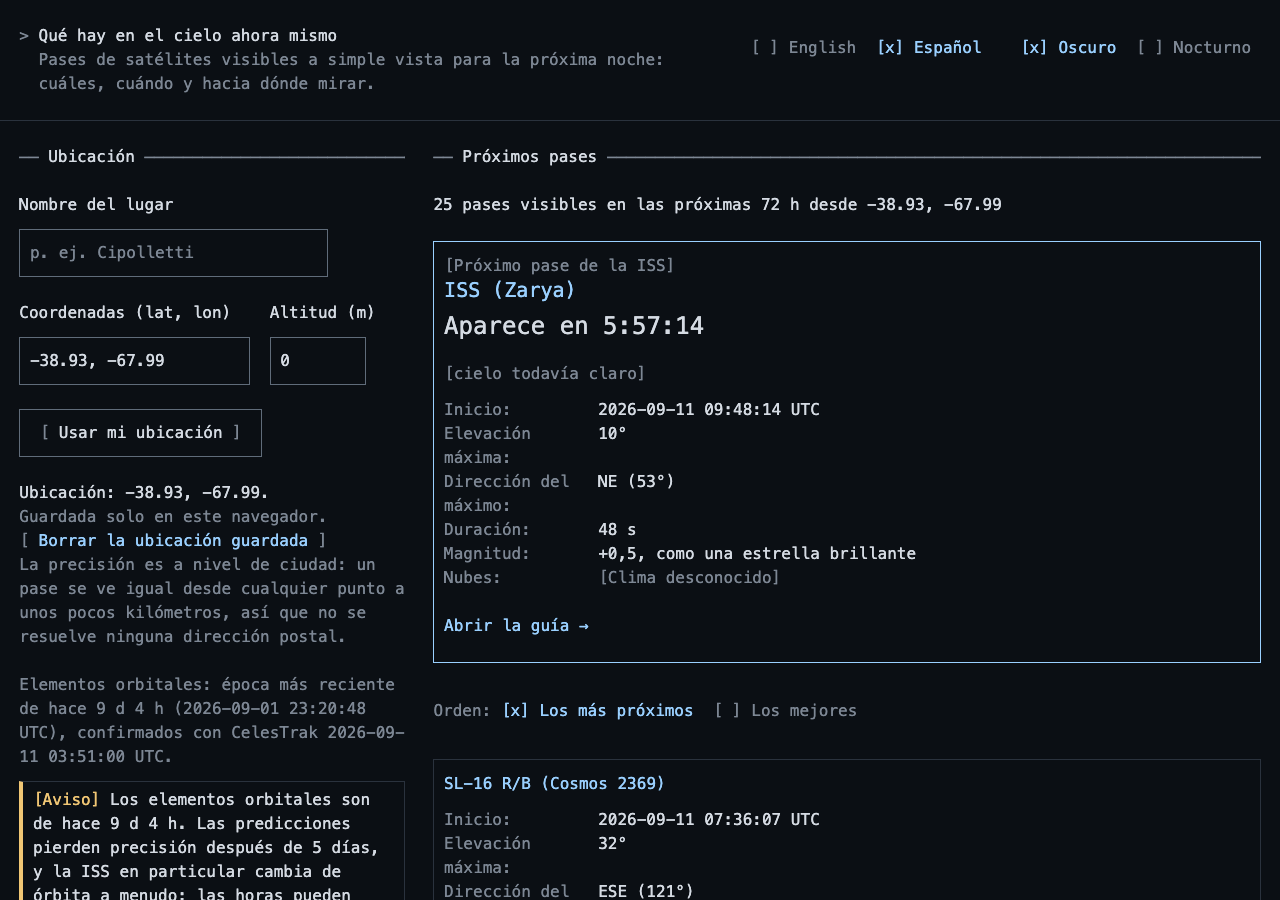
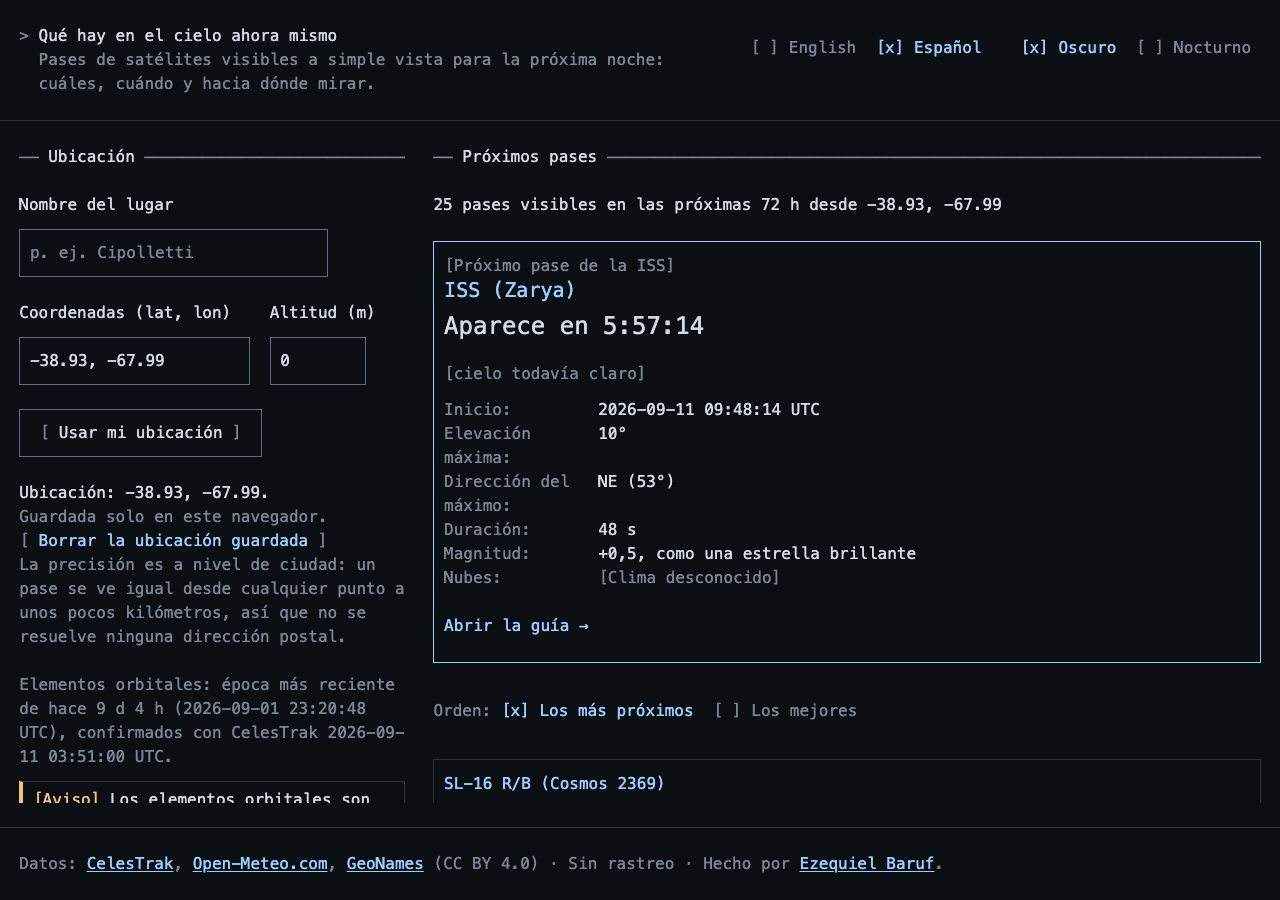
R23: the shell is the wide layout, and the list is the one thing that scrolls (D-119)
Scoping the shell to an open pass fixed one case and left two others wrong.
With a list and no pass the whole page scrolled, taking the header's language
and theme switches off the top and the location out from beside the list it
describes — the reader lost sight of what the list was *of* in order to read
it. With nothing entered at all the footer sat under three short paragraphs
with the ground showing below it.

So `#root` is the shell at every wide width, exactly `100dvh`, and the page
itself never scrolls. What scrolls is whichever pane has outgrown its share,
which in the ordinary state of the page means the pass list and nothing else:
72 h of them is the only thing on screen long enough to need it, and it is
the thing being read. The layout no longer changes how it scrolls depending
on what happens to be open.

`minmax(0, 1fr)` rather than `1fr` throughout: the row has to be allowed to
shrink below its content, or the panes have no height to be bounded by and it
all scrolls as one again.

Tests: a new one for the state the change is about — a list, no pass — holding
the page to no scroll, the list to scrolling itself, and the header, the left
column and the footer to not moving while it does. The assertion that the page
started scrolling again when the guide closed is now the opposite, which is
the point. Home captures retaken; the guide captures are unchanged.

Claude-Session: https://claude.ai/code/session_01UWAmU266DAWAov3NvX5itT

Changed region(s): [[0.0, 0.9022, 0.7188, 1.0]]

diff --git a/src/ui/App.module.css b/src/ui/App.module.css
@@ -52,33 +52,28 @@
     border-bottom: 1px solid var(--rule);
   }
 
+  /* R23 (D-119): both columns take the whole of the shell's middle row rather
+     than stopping at their content, so the left one reaches the footer instead
+     of leaving dead space under it and the right one has a height its panes
+     can be bounded by. The single row is written out because left implicit it
+     would be auto — sized to the taller column — and the shell would be lost
+     out of the bottom of `#root`. */
   .main {
     grid-template-columns: calc(40 * var(--cell)) minmax(0, 1fr);
-    gap: var(--row) calc(3 * var(--cell));
-    align-items: start;
-  }
-
-  /* R23 (D-119): inside the shell both columns take the whole of the middle
-     row rather than stopping at their content, so the left one reaches the
-     footer instead of leaving the page's dead space under it, and the right
-     one has a height its two panes can be bounded by. */
-  .main:has([data-guide='open']) {
-    /* One row, the height of the shell's middle band. Left implicit it would
-       be auto — sized to the taller column — and the whole point of the shell
-       would be lost out of the bottom of `#root`. */
     grid-template-rows: minmax(0, 1fr);
+    gap: var(--row) calc(3 * var(--cell));
     align-content: stretch;
     align-items: stretch;
     min-height: 0;
   }
 
-  .main:has([data-guide='open']) > .column {
+  .main > .column {
     min-height: 0;
   }
 
-  /* Short viewports: the location, the banners and the Now panel can outgrow
-     the shell too, and this column scrolls itself when they do. */
-  .main:has([data-guide='open']) > .leftColumn {
+  /* The location, the banners and the Now panel can outgrow the shell on a
+     short screen, and this column scrolls itself when they do. */
+  .leftColumn {
     overflow-y: auto;
   }
 
@@ -94,13 +89,14 @@
     gap: calc(3 * var(--cell));
   }
 
-  /* The list scrolls itself rather than the page, so the guide beside it
-     stays in view however long the list is. Its height is the shell's
-     (D-119) and no longer a fixed 34 rows: a cap written in rows is right at
-     one viewport height and wrong at every other — 816 px overshot a 768 px
-     laptop, so the page scrolled underneath a list that was already
-     scrolling, and wasted the bottom of a tall screen. */
-  .column[data-guide='open'] .listColumn {
+  /* The list scrolls itself rather than the page, whether or not a guide is
+     open beside it: it is 72 h of passes and the one thing on the screen long
+     enough to need it. Its height is the shell's (D-119) and no longer a
+     fixed 34 rows — a cap written in rows is right at one viewport height and
+     wrong at every other: 816 px overshot a 768 px laptop, so the page
+     scrolled underneath a list that was already scrolling, and wasted the
+     bottom of a tall screen. */
+  .listColumn {
     min-height: 0;
     overflow-y: auto;
   }

diff --git a/tests/e2e/desktop.spec.ts b/tests/e2e/desktop.spec.ts
@@ -97,6 +97,40 @@ test('wide: with nothing entered the page still fills the screen and the footer 
   expect(left?.y).toBeLessThan(TALL_HEIGHT / 2);
 });
 
+/**
+ * D-119: with a list and no pass open — the ordinary state of the page — the
+ * scroll belongs to the list and to nothing else. The header keeps the two
+ * switches reachable, the left column keeps saying what the list is of, and
+ * the footer stays on the bottom of the screen.
+ */
+test('wide: with a list and no pass open, only the list scrolls (D-119)', async ({ page }) => {
+  await loadWithPasses(page);
+
+  expect(
+    await page.evaluate(() => document.documentElement.scrollHeight - document.documentElement.clientHeight),
+  ).toBeLessThanOrEqual(1);
+
+  const list = page.getByTestId('list-column');
+  expect(await list.evaluate((el) => el.scrollHeight > el.clientHeight)).toBe(true);
+  await list.evaluate((el) => {
+    el.scrollTop = 300;
+  });
+  expect(await list.evaluate((el) => el.scrollTop)).toBeGreaterThan(0);
+  expect(await page.evaluate(() => window.scrollY)).toBe(0);
+
+  // Scrolling the list moved nothing else: the header, the left column and the
+  // footer are where they were, and the footer is on the bottom of the screen.
+  const [header, left, footer] = await Promise.all([
+    page.getByRole('banner').boundingBox(),
+    page.getByTestId('col-left').boundingBox(),
+    page.getByRole('contentinfo').boundingBox(),
+  ]);
+  if (!header || !left || !footer) throw new Error('the shell is not laid out');
+  expect(header.y).toBeGreaterThanOrEqual(0);
+  expect(left.y).toBeLessThan(WIDE.height / 2);
+  expect(Math.abs(footer.y + footer.height - WIDE.height)).toBeLessThanOrEqual(1);
+});
+
 test('wide: two columns, the guide beside a live list, Escape and the hash (FR-DESK-1/2/3)', async ({ page }) => {
   const golden = reference.firstGoldenPass;
   if (!golden) throw new Error('reference-values.json has no firstGoldenPass');
@@ -222,11 +256,12 @@ test('wide: two columns, the guide beside a live list, Escape and the hash (FR-D
   await expect(page).not.toHaveURL(/#pass=/);
   const closedBox = await page.getByTestId('list-column').boundingBox();
   expect(closedBox?.width).toBeGreaterThan(listBox.width);
-  // D-119 is scoped to an open pass: the list on its own is an ordinary long
-  // page again, scrolling as one rather than inside a bounded shell.
+  // The shell is the wide layout, not a mode a pass puts it into: closing the
+  // guide gives the list the width back and changes nothing about the scroll.
   expect(
-    await page.evaluate(() => document.documentElement.scrollHeight > document.documentElement.clientHeight),
-  ).toBe(true);
+    await page.evaluate(() => document.documentElement.scrollHeight - document.documentElement.clientHeight),
+  ).toBeLessThanOrEqual(1);
+  expect(await page.getByTestId('list-column').evaluate((el) => el.scrollHeight > el.clientHeight)).toBe(true);
 });
 
 /**

diff --git a/src/ui/styles/global.css b/src/ui/styles/global.css
@@ -66,26 +66,19 @@ main {
     margin-inline: 0;
   }
 
-  /* R23 (D-119). The wide page is a shell of header, main and footer, at
-     least one viewport high. `min-height` and a `1fr` middle row: with little
-     on the page — no location entered yet, so no list and no Now panel — the
-     middle row takes up the slack and the footer sits on the bottom of the
-     screen instead of floating under three short paragraphs with the ground
-     showing below it; with a long list the rows grow and the page scrolls as
-     it always did. The `1fr` here is `minmax(auto, 1fr)`, so the row never
-     shrinks below its own content. */
+  /* R23 (D-119). The wide page is a shell exactly one viewport high: header,
+     main and footer, and the page itself never scrolls. What scrolls is
+     whichever pane has outgrown its share — usually the pass list, which is
+     72 h of them, and which is the thing being read. The header stays, so the
+     language and theme switches are always reachable; the location and the
+     Now panel stay, so what the list is *of* is still on screen while it is
+     read; the footer sits on the bottom of the screen whether the page is
+     full or nearly empty. `minmax(0, 1fr)` and not `1fr`: the middle row has
+     to be allowed to shrink below its content, or the panes have no height to
+     be bounded by and the whole thing scrolls as one again. */
   #root {
-    min-height: 100dvh;
-    display: grid;
-    grid-template-rows: auto 1fr auto;
-  }
-
-  /* With a pass open it is exactly one viewport instead of at least one, and
-     the middle row may shrink below its content — that is what gives the
-     panes inside it a height to be bounded by, so each scrolls itself rather
-     than all three adding up into one page scroll. */
-  #root:has([data-guide='open']) {
     height: 100dvh;
+    display: grid;
     grid-template-rows: auto minmax(0, 1fr) auto;
   }
 }

diff --git a/PLAN.md b/PLAN.md
@@ -291,7 +291,7 @@ These plan SPEC v1.0 (V1-1..V1-11). Nothing here is implemented yet; each decisi
 - **D-116 — The breakpoint lives in `src/lib`; the hook that reads it lives in `src/ui/hooks`.** §5's tree put `useLayoutMode` in `lib/layout.ts`, and §3's dependency table forbids `src/lib` from importing React at all — a rule the lint config enforces, so the file as drawn could not have been written. The table wins, for the reason it exists: `src/lib` is the pure layer the worker and the physics tests may share, and one React import would make all of it unimportable there. So `lib/layout.ts` keeps what is not React — `WIDE_CELLS`, `WIDE_MIN_PX`, `WIDE_QUERY` and `layoutMode(matches)`, which is also what `tests/styles/breakpoint.test.ts` imports in Node — and `ui/hooks/useLayoutMode.ts` is the subscription, beside `useNow.ts`, which R11 moved there for exactly this reason. The hook is `useSyncExternalStore` over the media query rather than an effect writing state: an effect would mount every desktop load in the compact layout and reflow the whole page one frame later, and React's own lint rule rejects the synchronous `setState` that would be needed to avoid it.
 - **D-117 — The compact sheet is portaled to the body, so that one component can pick both shells.** D-72 asks for one guide component with two wrappers, and FR-DESK-3 puts the wide one *inside* the right column — but the compact sheet needs the page around it to be `inert`, and a sheet rendered inside `main` would be inert with it. `PassDetail` is therefore rendered once, in the right column, and `createPortal`s its sheet to `document.body` when the layout is compact; the panel renders in place when it is wide. Nothing about the sheet changes — it was already `position: fixed`, so its box never depended on where it sat in the DOM — and `App` goes on marking header, main and footer inert around it. One consequence for tests: RTL's `container` no longer holds the sheet, so the three `axe` runs that cover it take `document.body` instead, which is strictly more of the page than they saw before.
 - **D-118 — The wide guide is a labelled region, not a dialog.** The compact sheet is `role="dialog" aria-modal="true"` because it covers the page: nothing behind it can be reached, and that is what the role promises. The wide panel promises the opposite — FR-DESK-3's whole point is that the list stays beside it, scrollable and clickable — so calling it a dialog would tell a screen-reader user the page was blocked when it is not, and a non-modal `dialog` is a distinction almost nothing conveys. It is a `<section>` with a label, like the three regions already on the screen; `<aside>` would be the better tag but axe's own best-practice rule rejects a complementary landmark nested in `main`. The label is "Guide: <name>" rather than the name alone, because the card for the same pass is still on screen one column to the left and two regions with one name is a worse answer than a longer one. Focus still moves to the heading on open and `Esc` still closes: those belong to the guide, not to the shell, and `PassDetail` owns them for both.
-- **D-119 — With a pass open the wide page is one viewport high, and each pane scrolls itself.** FR-DESK-3 says the list stays scrollable beside the guide, and the first implementation gave the list a `max-height` of 34 rows and the guide none at all. That is two scrollbars that do not agree: the list's, fixed at 816 px, and the page's, driven by whichever of the three columns is longest — usually the guide, which carries the countdown, the chart and the numbers. The reader scrolls the page to reach the bottom of the guide and the list scrolls out from under them; the left column, packed to the top by `align-items: start`, leaves a screen of dead space behind. A cap written in rows is also right at exactly one viewport height and wrong at every other: 816 px overshoots a 768 px laptop, so the page scrolled *underneath* a list that was already scrolling, and wastes the bottom of a tall screen. So the height comes from the viewport instead. `#root` becomes a grid of header, main and footer, `min-height: 100dvh` with a `1fr` middle row at every wide width — which also settles the opposite case, the shortest the page ever is: with no location entered there is no list and no Now panel, and the footer used to sit under three short paragraphs with the ground showing below it for the rest of the screen. `1fr` is `minmax(auto, 1fr)`, so a long list still grows the row and scrolls the page as it always did. With a pass open the shell is exactly `100dvh` rather than at least it, and the middle row becomes `minmax(0, 1fr)` so it may shrink below its content; `main` stretches both columns to that row, and the three panes that can outgrow it — the left column, the list, and the guide's body under a head that stays — each carry their own `overflow-y`. Three consequences worth naming. The shell is scoped to `:has([data-guide='open'])`, because with no pass open the page is an ordinary long document and should scroll like one; nothing about compact changes, and the sheet is still `position: fixed` over a page whose scroll it locks (D-117). `100dvh` and not `100vh`: on a phone in landscape past the breakpoint the dynamic unit is the one that does not hide the footer behind the browser chrome. And the guide's head is pinned rather than scrolled away, because the close control is what someone reaches for after reading to the bottom of a long guide.
+- **D-119 — With a pass open the wide page is one viewport high, and each pane scrolls itself.** FR-DESK-3 says the list stays scrollable beside the guide, and the first implementation gave the list a `max-height` of 34 rows and the guide none at all. That is two scrollbars that do not agree: the list's, fixed at 816 px, and the page's, driven by whichever of the three columns is longest — usually the guide, which carries the countdown, the chart and the numbers. The reader scrolls the page to reach the bottom of the guide and the list scrolls out from under them; the left column, packed to the top by `align-items: start`, leaves a screen of dead space behind. A cap written in rows is also right at exactly one viewport height and wrong at every other: 816 px overshoots a 768 px laptop, so the page scrolled *underneath* a list that was already scrolling, and wastes the bottom of a tall screen. So the height comes from the viewport instead, and not only when a pass is open. **The wide page is a shell exactly `100dvh` high at every width above the breakpoint** — header, main and footer, with `main` a single `minmax(0, 1fr)` row — and the page itself never scrolls. What scrolls is whichever pane has outgrown its share, which in the ordinary state of the page means the pass list and nothing else: 72 h of passes is the only thing on the screen long enough to need it, and it is the thing being read. Scoping the shell to an open pass, as the first version of this did, fixed one case and left two others wrong. With a list and no pass the whole page scrolled, taking the header's language and theme switches off the top and the location out from beside the list it describes — the reader loses sight of what the list is *of* in order to read it. And with nothing entered at all there is no list and no Now panel, and the footer sat under three short paragraphs with the ground showing below it for the rest of the screen. One shell answers all three, and the layout no longer changes how it scrolls depending on what happens to be open. `minmax(0, 1fr)` and not `1fr`: the row has to be allowed to shrink below its content, or the panes have no height to be bounded by and the whole thing scrolls as one again. `main` stretches both columns to that row, and the three panes that can outgrow it — the left column, the list, and the guide's body under a head that stays — each carry their own `overflow-y`. Three consequences worth naming. The shell is scoped to `:has([data-guide='open'])`, because with no pass open the page is an ordinary long document and should scroll like one; nothing about compact changes, and the sheet is still `position: fixed` over a page whose scroll it locks (D-117). `100dvh` and not `100vh`: on a phone in landscape past the breakpoint the dynamic unit is the one that does not hide the footer behind the browser chrome. And the guide's head is pinned rather than scrolled away, because the close control is what someone reaches for after reading to the bottom of a long guide.
 - **D-120 — The wide footer is one row, and it says who made the page.** D-119's shell holds the footer on screen for as long as a pass is open, and four rows of provenance is not what that space is for — on a 900 px viewport they were most of what the three columns lost. So the footer has two forms, chosen by the layout the way `PassDetail` chooses its two shells (D-72): compact keeps the four sentences at the bottom of a page that scrolls, and wide says the same thing in one row. What the short form may not drop is the attribution itself. Every provider is still named and still linked, and CC BY 4.0 is still called by name: that is the condition the geocoding data is used under, not decoration, and a footer that credits nobody to save a row would be the one change here that is not ours to make. The row also carries the author's credit, linked to the profile — new in FR-X-2, which until now named only the data. Two smaller things came with it. `margin: 0 auto` centres the 80-cell frame in compact and is a no-op at wide in normal flow, but inside D-119's grid an auto margin turns off the stretch a grid item gets by default: the footer shrank to its own text and sat in the middle of the page, which is how this was noticed. And the character rule above the credits is a fixed 92-character string — the 80-cell frame's width — which stops short of a viewport that no longer has a frame; at wide it is the 1 px line in the rule colour that every card on the page is already drawn with, which FR-X-6 allows in as many words and which is as wide as whatever contains it.
 
 ---
